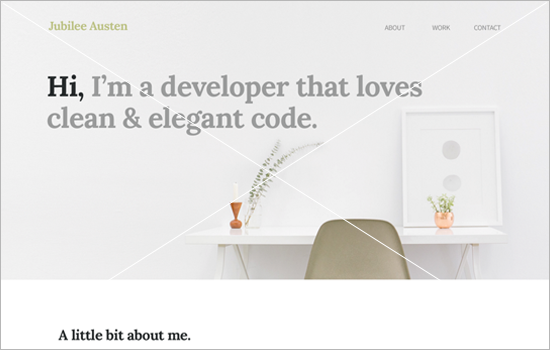
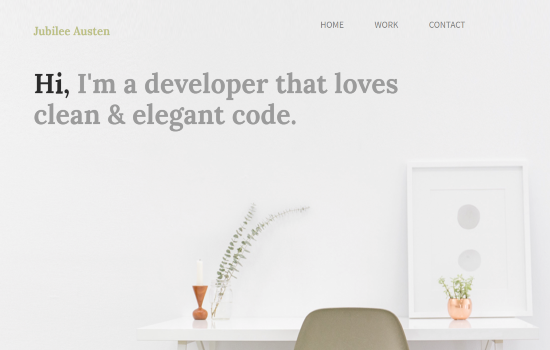
changed nav links to designated areas on first page and added links to the portfolio images

diff --git a/index.html b/index.html
@@ -6,6 +6,7 @@
         <link rel="stylesheet" href="css/normalize.css">
         <link rel="stylesheet" href="css/main.css">
         <link href="https://fonts.googleapis.com/css?family=Montserrat:400,700|Source+Code+Pro:400,600&display=swap" rel="stylesheet">
+        <link href="https://fonts.googleapis.com/css?family=Courier+Prime:400,700|Muli:400,700|Rubik:400,700&display=swap" rel="stylesheet">
     </head>
 
 
@@ -17,15 +18,15 @@
   <p>&lt; tomomi iwamoto | web develper /></p>
 
   <nav>
-    <a href="https://skillcrush.com/" target="_blank">portfolio</a>
-    <a href="https://skillcrush.com/" target="_blank">about</a>
-    <a href="https://skillcrush.com/" target="_blank">contact</a>
+      <a href="#work">portfolio</a>
+      <a href="#about">about</a>
+      <a href="#contact">contact</a>
   </nav>
 </div>
 
-<div class="full-width">
-  <h1>let's <span>code</span><br>something cool</h1>
-</div>
+
+  <!--<h1>let's <span>&lt;code></span> something awesome</h1>-->
+
 
 </header>
 
@@ -41,13 +42,13 @@
 
     <div id="rogue" class="full-width">
       <div class="half-width">
-        <img src="img/rogue-pickings.png" alt="rogue pickings"/>
+        <a href="https://tomi-design.github.io/rogue/"><img src="img/rogue-pickings.png" alt="rogue pickings"/></a>
       </div>
 
-      <div class="half-width">
+      <div class="half-width" class="margin">
         <h4>Rogue Pickings Website</h4>
         <p>HTML & CSS from Photoshop Design Comp</p>
-        <p>I show my fluffy belly but it's a trap! if you pet it i will tear up your hand jump launch to pounce upon little yarn mouse, bare fangs at toy run hide in litter box until treats are fed but howl on top of tall thing nap all day leave fur on owners clothes eat the rubberband. Meow meow chase red laser dot.</p>
+        <p>A clean, organized webpage created through the use of a design comp for a food truck company.</p>
       </div>
     </div>
   <!-- jubilee austen ------------------------>
@@ -56,24 +57,24 @@
     <div class="half-width">
       <h4>Jubilee Austen Project</h4>
       <p>HTML 5 & CSS Website</p>
-      <p>I show my fluffy belly but it's a trap! if you pet it i will tear up your hand jump launch to pounce upon little yarn mouse, bare fangs at toy run hide in litter box until treats are fed but howl on top of tall thing nap all day leave fur on owners clothes eat the rubberband. Meow meow chase red laser dot.</p>
+      <p>This is another project based on a photoshop design comp. This webpage is ideal for portfolios and small businesses.</p>
     </div>
 
     <div class="half-width">
-      <img src="img/jubilee.png" alt="jubilee austen"/>
+      <a href="https://tomi-design.github.io/my-web-project/" alt="jubliee austen site"><img src="img/jubilee.png" alt="jubilee austen"/></a>
     </div>
   </div>
   <!-- holstee manifesto ---------------------->
 
   <div id="holstee" class="full-width">
     <div class="half-width">
-      <img src="img/holstee.png" alt="holstee manifesto"/>
+      <a href="https://tomi-design.github.io/tomiportfolio/"><img src="img/portfolio.png" alt="design portfolio"/></a>
     </div>
 
     <div class="half-width">
-      <h4>Holstee Manifesto</h4>
+      <h4>Design Portfolio</h4>
       <p>HTML 5 & CSS Exercise</p>
-      <p>I show my fluffy belly but it's a trap! if you pet it i will tear up your hand jump launch to pounce upon little yarn mouse, bare fangs at toy run hide in litter box until treats are fed but howl on top of tall thing nap all day leave fur on owners clothes eat the rubberband. Meow meow chase red laser dot.</p>
+      <p>This is my personal design portfolio coded in html and css. All of the images here were produced using Photoshop, Illustrator and InDesign.</p>
     </div>
   </div>
 </section>
@@ -82,13 +83,21 @@
 <!-- about section ---------------------------------------------------->
 
 <section id="about">
+
   <h2>about me</h2>
 
+    <div id="aboutmeinfo" class="full-width">
     <div class="half-width">
-      <h3>I am passionate about the web.</h3>
-      <p>I started taking Skillcrush classes after getting recommendations from my cat. With out her constant encouragement I would have never made it to be a purrfesional Web Developer. One day I will make the Internet a safe place for all cats, where no cat will fear being meme-ified and exploited for their cuteness.</p>
-      <p>Can’t wait to work with you!</p>
+      <img src="img/me.jpg" alt="photo of me"/>
     </div>
+
+    <div class="half-width">
+      <h3>I love all things web and design!</h3>
+      <p>I am a problem solver, creative thinker and lover of learning. I am a believer of being a lifetime learner and explorer and always trying to hone and update my skills. Would love to work with you and find out your voice and put it on the web for all to see!</p>
+      <p>Let's take the journey together. Can't wait to work with you!</p>
+    </div>
+</div>
+
 </section>
 
 
@@ -103,8 +112,7 @@
   <div id="contact">
     <div class="third-width">
       <h3>Hire me</h3>
-      <p>555-555-5555</p>
-      <p>hello@tomomiiwamoto.com</p>
+      <p>tomoiwamoto21@gmail.com</p>
     </div>
 
     <div class="third-width" id="followme">

diff --git a/css/main.css b/css/main.css
@@ -2,7 +2,7 @@
 /***** BASE STYLES *****************/
 
 body {
-  background-color: black;
+  background-color: #000033;
 }
 
 /***** GRID **********************/
@@ -24,16 +24,16 @@ body {
 /***** HEADER ******************/
 
 header {
-   	  background: url('../img/hero-background.png');
-    	background-size: cover;
-      height: 800px;
+   	  background: url('../img/apple7.png');
+      height: 840px;
 }
 
 header h1 {
   color: white;
   font-family: 'Source Code Pro', monospace;
-  font-size: 72px;
+  font-size: 80px;
   padding-top: 200px;
+  text-align: center;
 }
 
 header p {
@@ -48,7 +48,7 @@ span {
 }
 
 #navbar {
-  background: black;
+  background: #000033;
   height: 70px;
   width: 100%;
 }
@@ -90,7 +90,6 @@ a:link {
   padding: 50px 180px 0px 0px;
   text-align: center;
 }
-
 
 /*****rogue******/
 
@@ -183,9 +182,15 @@ a:link {
 /*****ABOUT**********************/
 
 #about {
-   	  background: url('../img/about-me.png');
-      background-size: 80%;
-      height: 550px;
+   	  /*background: url('../img/about-me.png');*/
+      /*background-size: 80%;*/
+      background-color: #b5b4b0;
+      height: 600px;
+}
+
+#about img {
+  width: 300px;
+  margin: 30px 20px 30px 200px;
 }
 
 #about  h2 {
@@ -193,12 +198,12 @@ a:link {
   font-family: 'Source Code Pro', monospace;
   font-size: 36px;
   font-weight: 600;
-  padding-top: 40px;
+  padding-top: 30px;
   text-align: center;
 }
 
 #about h3 {
-  color: black;
+  color: white;
   font-family: 'Montserrat', sans-serif;
   font-size: 24px;
   margin-left: 100px;
@@ -206,7 +211,7 @@ a:link {
 }
 
 #about p {
-  color: black;
+  color: white;
   font-family: 'Montserrat', sans-serif;
   font-size: 24px;
   margin-left: 100px;
